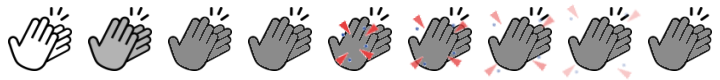
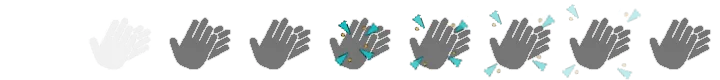
Added bootstrap 5 night and darkmode

Changed region(s): [[0.0, 0.075, 1.0, 0.975]]

diff --git a/src/LinkDotNet.Blog.Web/wwwroot/css/basic.css b/src/LinkDotNet.Blog.Web/wwwroot/css/basic.css
@@ -1,53 +1,18 @@
 :root {
     /* Color definitions */
-    --ceramic: #FCFFF5;
-    --tana: #D1DBBD;
-    --pewter: #91AA9D;
-    --william: #3E606F;
-    --big-stone: #193441;
-
-    --white: #ffffff;
-    --wild-sand: #f4f4f4;
-    --silver: #DADADA;
+    --jaguar: #07011A;
+    --shark: #28282f;
 
     /* Fonts */
     --default-font: 'Calibri';
     --code-font: 'Lucida Console', 'Courier New';
 
-    /* Usages - this colors have to be defined in every theme */
-    --active-link: var(--big-stone);
-    --disabled-link: var(--pewter);
-    --link-hover: var(--tana);
-    --active-link-inverted: var(--ceramic);
-    --link-hover-inverted: var(--tana);
-
-    --header1: var(--william);
-    --header1-inverted: var(--ceramic);
-    --header2: var(--pewter);
-    --text-color: var(--big-stone);
-    --text-color-inverted: var(--ceramic);
-
-    --navbar-background: #f4f4f4d0;
-
-    --blockquote-background: var(--wild-sand);
-    --blockquote-border: var(--william);
-
-    --button-text-color: var(--wild-sand);
-    --button-primary-color: var(--william);
-    --button-primary-border-color: var(--big-stone);
-    --button-primary-hover-color: var(--big-stone);
-    --button-secondary-color: var(--big-stone);
-    --button-secondary-border-color: var(--big-stone);
-
-    --blog-post-background-color: var(--big-stone);
-
-    --background-gradient-start: var(--wild-sand);
-    --background-gradient-end: var(--silver);
+    --background-gradient-start: var(--jaguar);
+    --background-gradient-end: var(--shark);
 }
 
 html {
     height: 100%;
-    font-size: 1.1rem;
 }
 
 html:focus-within {
@@ -68,47 +33,23 @@ body {
 a {
     transition: 0.3s ease-in-out !important;
     font-weight: 500;
-    color: var(--active-link) !important;
-}
-
-a:hover {
-    color: var(--link-hover) !important;
 }
 
 .disabled a {
     font-weight: 400;
-    color: var(--disabled-link) !important;
+    /*color: var(--disabled-link) !important;*/
 }
 
 .inverted-colors a {
     font-weight: 400;
-    color: var(--active-link-inverted) !important;
-}
-
-.inverted-colors a:hover {
-    color: var(--link-hover-inverted) !important;
-}
-
-.inverted-colors p {
-    color: var(--text-color-inverted) !important;
-}
-
-.inverted-colors button {
-    color: var(--white) !important;
 }
 
 h1 {
-    color: var(--header1);
     word-wrap: break-word;
 }
 
-h2 {
-    color: var(--header2);
-}
-
 blockquote {
-    border-left: 2px solid var(--header2);
-    background: var(--blockquote-background);
+    background: var(--shark);
     padding-left: 0.5em;
 }
 
@@ -132,17 +73,8 @@ blockquote p {
     display: inline;
 }
 
-p {
-    color: var(--text-color);
-}
-
 section {
     padding-bottom: 10px;
-}
-
-.table th {
-    background: var(--button-primary-color);
-    color: var(--white);
 }
 
 code {

diff --git a/src/LinkDotNet.Blog.Web/Features/Components/ShortBlogPost.razor.css b/src/LinkDotNet.Blog.Web/Features/Components/ShortBlogPost.razor.css
@@ -20,9 +20,7 @@
 .blog-card a {
     color: inherit;
 }
-.blog-card a:hover {
-    color: #5ad67d;
-}
+
 .blog-card .meta {
     position: relative;
     z-index: 0;
@@ -75,11 +73,11 @@
 
 .blog-card .description {
     padding: 1rem;
-    background: #fff;
+    background: var(--background-gradient-start);
     position: relative;
     z-index: 1;
 }
-.blog-card .description h1,
+
 .blog-card .description h1 {
     line-height: 1;
     margin: 0 0 5px 0;
@@ -123,7 +121,6 @@
     content: "";
     position: absolute;
     height: 5px;
-    background: var(--active-link);
     width: 35px;
     top: -0.75rem;
     border-radius: 3px;
@@ -151,7 +148,7 @@
     .blog-card .description:before {
         transform: skewX(-3deg);
         content: "";
-        background: #fff;
+        background: var(--background-gradient-start);
         width: 30px;
         position: absolute;
         left: -10px;

diff --git a/src/LinkDotNet.Blog.Web/Features/AboutMe/Components/Profile.razor.css b/src/LinkDotNet.Blog.Web/Features/AboutMe/Components/Profile.razor.css
@@ -13,17 +13,12 @@
 }
 
 .profile-name:first-child {
-    color: var(--header1);
-    background: var(--white);
-}
-
-.profile-name:last-child {
-    color: var(--header2);
+    background: var(--background-gradient-end);
 }
 
 .profile-image {
     padding: 30px;
-    background: linear-gradient(to bottom , white 50%, var(--header1) 50.1%, var(--header1) 100%);
+    background: var(--background-gradient-end);
 }
 
 .profile-image img {
@@ -34,7 +29,7 @@
 }
 
 .profile-keypoints {
-    background-color: var(--header1);
+    background-color: var(--background-gradient-end);
     padding-top: 10px;
     padding-left: 2.5em;
     padding-right: 1.5em;
@@ -44,7 +39,6 @@
 
 .profile-keypoints li {
     padding-bottom: 0.6em;
-    color: var(--white);
     letter-spacing: 0.05em;
 }
 

diff --git a/src/LinkDotNet.Blog.Web/Features/Home/Components/SearchInput.razor.css b/src/LinkDotNet.Blog.Web/Features/Home/Components/SearchInput.razor.css
@@ -1,5 +1,5 @@
 .search-bar {
-    border: 2px solid var(--active-link);
+    border: 2px solid;
     display: flex;
     border-radius: 100vh;
     overflow: hidden;
@@ -22,7 +22,6 @@
     left: 0;
     z-index: 2;
     cursor: pointer;
-    color:var(--active-link);
     font-weight: 600;
 }
 
@@ -31,7 +30,6 @@
 }
 
 .search-bar-button {
-    color:var(--active-link);
     border: 0;
     border-radius: 100vh;
     margin-left: auto;

diff --git a/src/LinkDotNet.Blog.Web/wwwroot/components/slideshow.js b/src/LinkDotNet.Blog.Web/wwwroot/components/slideshow.js
@@ -37,7 +37,6 @@ templateSlideshowContainer.innerHTML = `
 }
 
 .text {
-  color: var(--white);
   font-size: 15px;
   padding: 8px 12px;
   position: absolute;
@@ -47,7 +46,6 @@ templateSlideshowContainer.innerHTML = `
 }
 
 .numbertext {
-  color: var(--white);
   font-size: 12px;
   padding: 8px 12px;
   position: absolute;

diff --git a/src/LinkDotNet.Blog.Web/Features/AboutMe/Components/Skill/SkillTag.razor.css b/src/LinkDotNet.Blog.Web/Features/AboutMe/Components/Skill/SkillTag.razor.css
@@ -1,8 +1,7 @@
 .skill-tag {
     padding: 8px;
     border-radius: 5px;
-    background-color: var(--header1);
-    color: var(--white);
+    background-color: var(--background-gradient-end);
     display: inline-block;
     white-space: nowrap;
     overflow: hidden;

diff --git a/src/LinkDotNet.Blog.Web/Features/Home/Components/IntroductionCard.razor.css b/src/LinkDotNet.Blog.Web/Features/Home/Components/IntroductionCard.razor.css
@@ -35,7 +35,6 @@
     margin: auto;
     grid-area: profile-text;
     font-size: clamp(1rem, 0.6479rem + 1.1268vw, 1.5rem);
-    color: var(--text-color-inverted);
     line-height: clamp(1.5em, 0.6479rem + 1.1268vw, 2.25em);
     text-align: center;
 }

diff --git a/src/LinkDotNet.Blog.Web/Features/ShowBlogPost/ShowBlogPostPage.razor.css b/src/LinkDotNet.Blog.Web/Features/ShowBlogPost/ShowBlogPostPage.razor.css
@@ -1,5 +1,5 @@
 .blog-container {
-    background: var(--white);
+    background: var(--background-gradient-start);
     width: clamp(60%, 2vw, 90%);
     box-shadow: 0 3px 7px -1px rgba(0, 0, 0, 0.1);
     border-radius: 5px;

diff --git a/src/LinkDotNet.Blog.Web/Features/AboutMe/Components/TabbedNavigation.razor.css b/src/LinkDotNet.Blog.Web/Features/AboutMe/Components/TabbedNavigation.razor.css
@@ -3,7 +3,3 @@
     background: transparent !important;
     color: var(--bs-body-color) !important;
 }
-
-.nav>.nav-item>button.active {
-    border-bottom: 2px solid var(--active-link);
-}

diff --git a/src/LinkDotNet.Blog.Web/Features/Home/Index.razor.css b/src/LinkDotNet.Blog.Web/Features/Home/Index.razor.css
@@ -1,5 +1,4 @@
 .blogpost-cards {
-    background-color: var(--blog-post-background-color);
     margin: 1rem auto 1.6%;
 }
 
